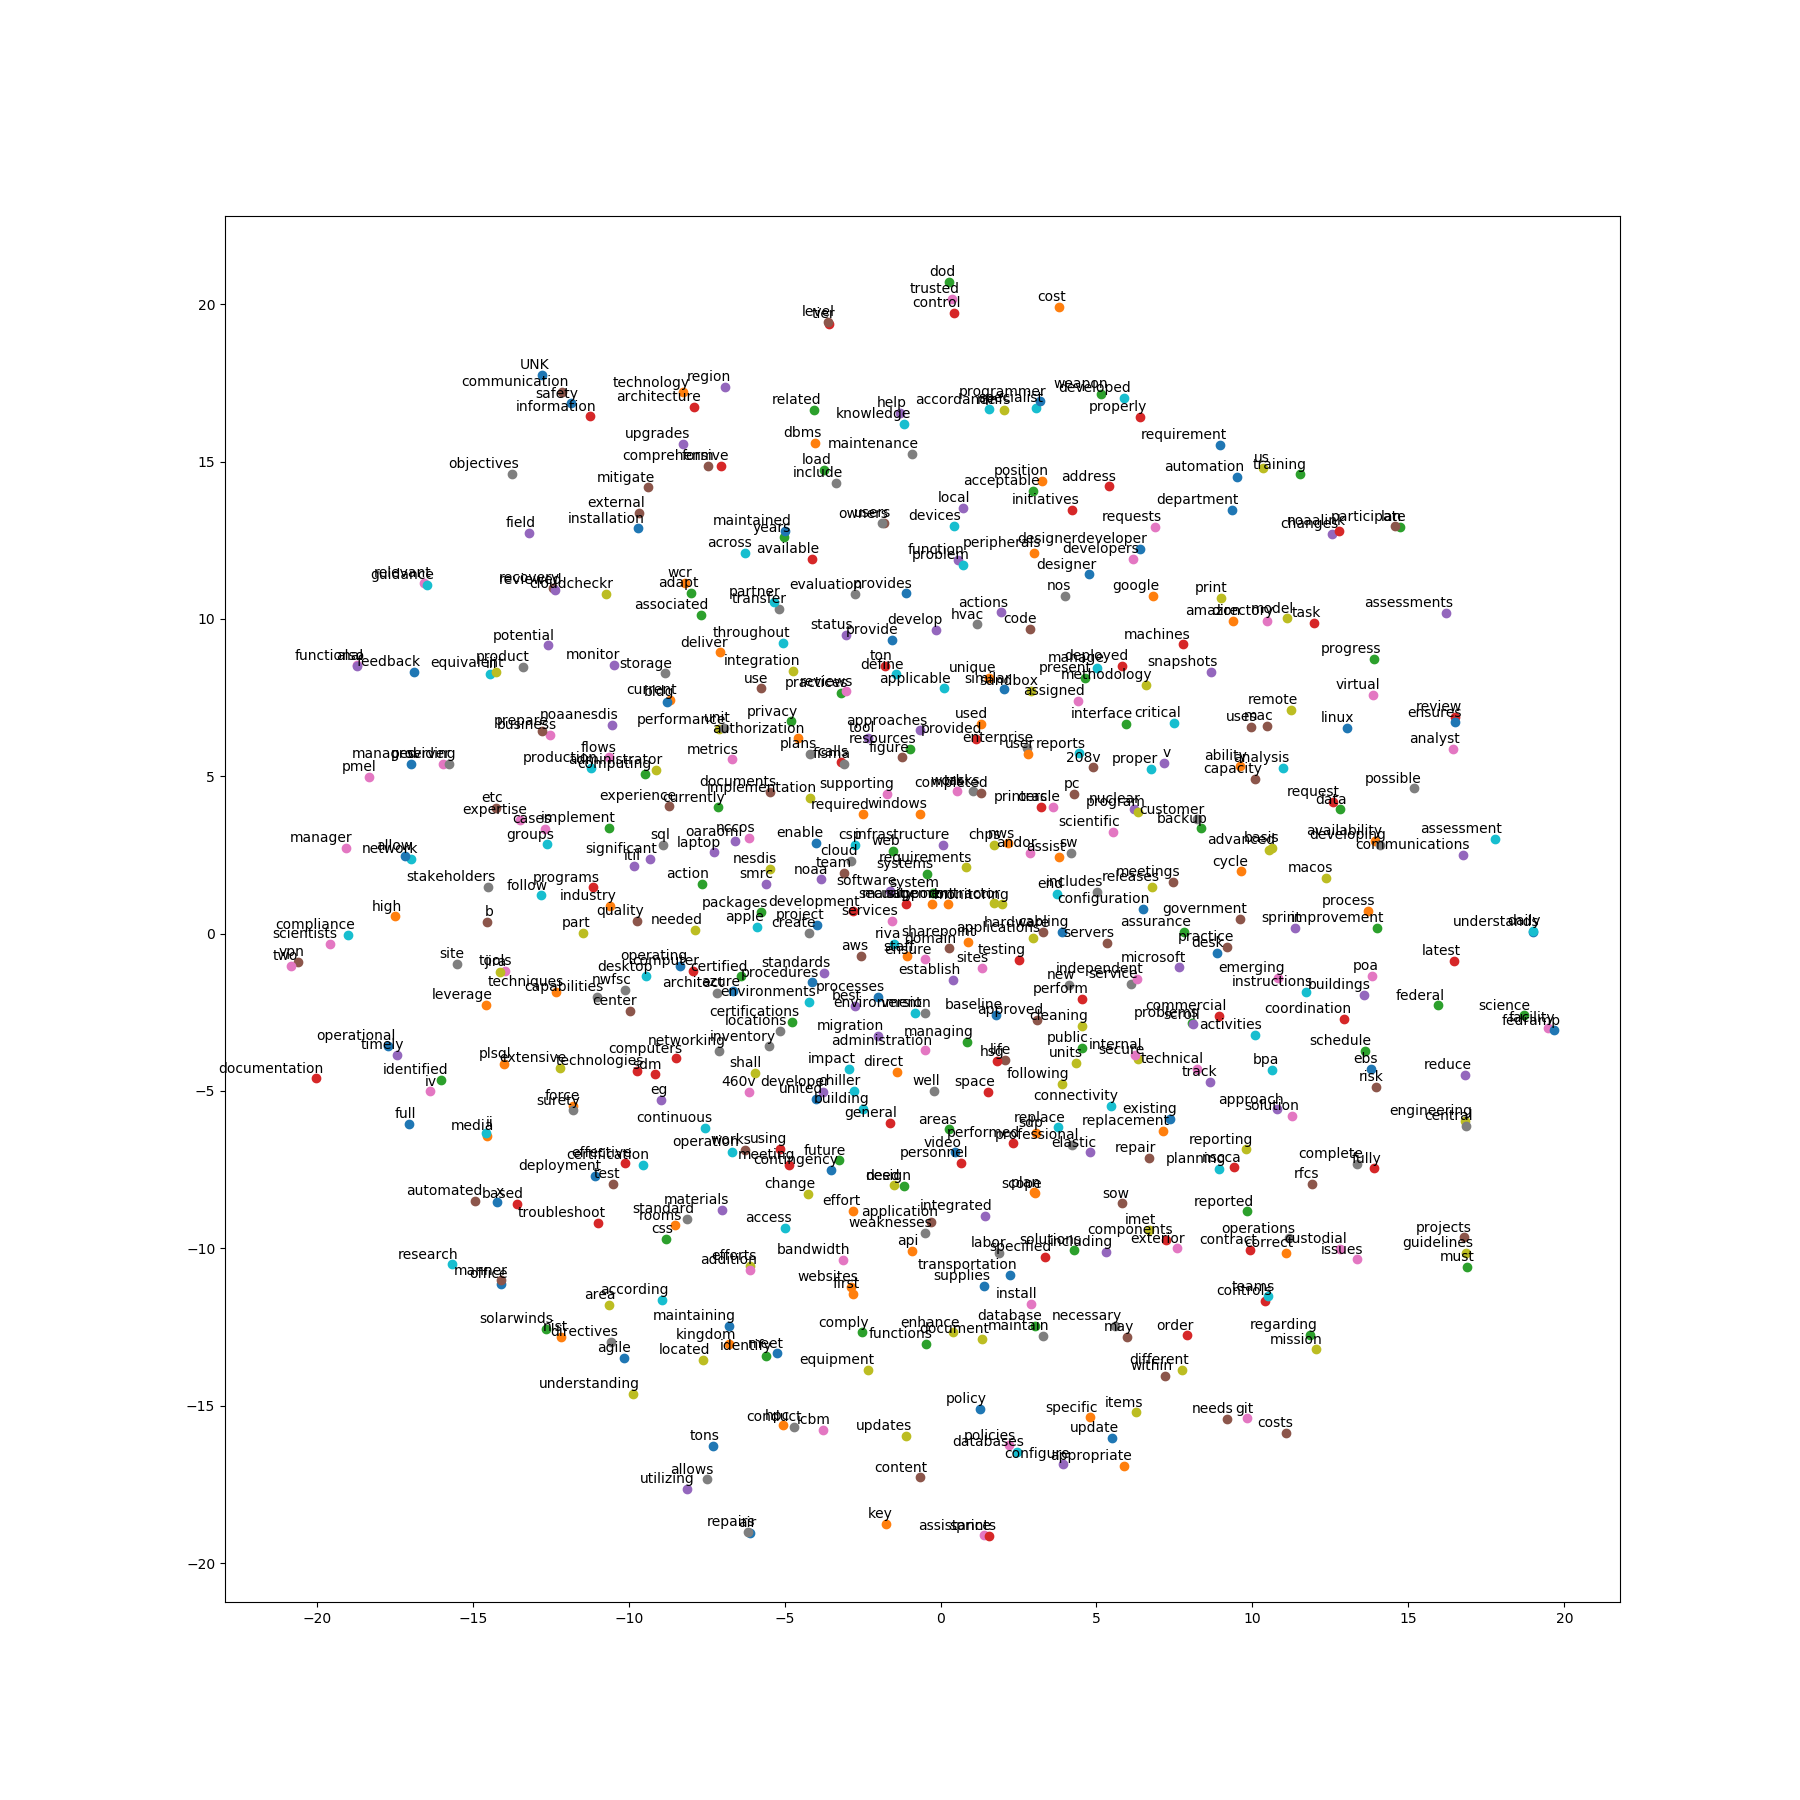
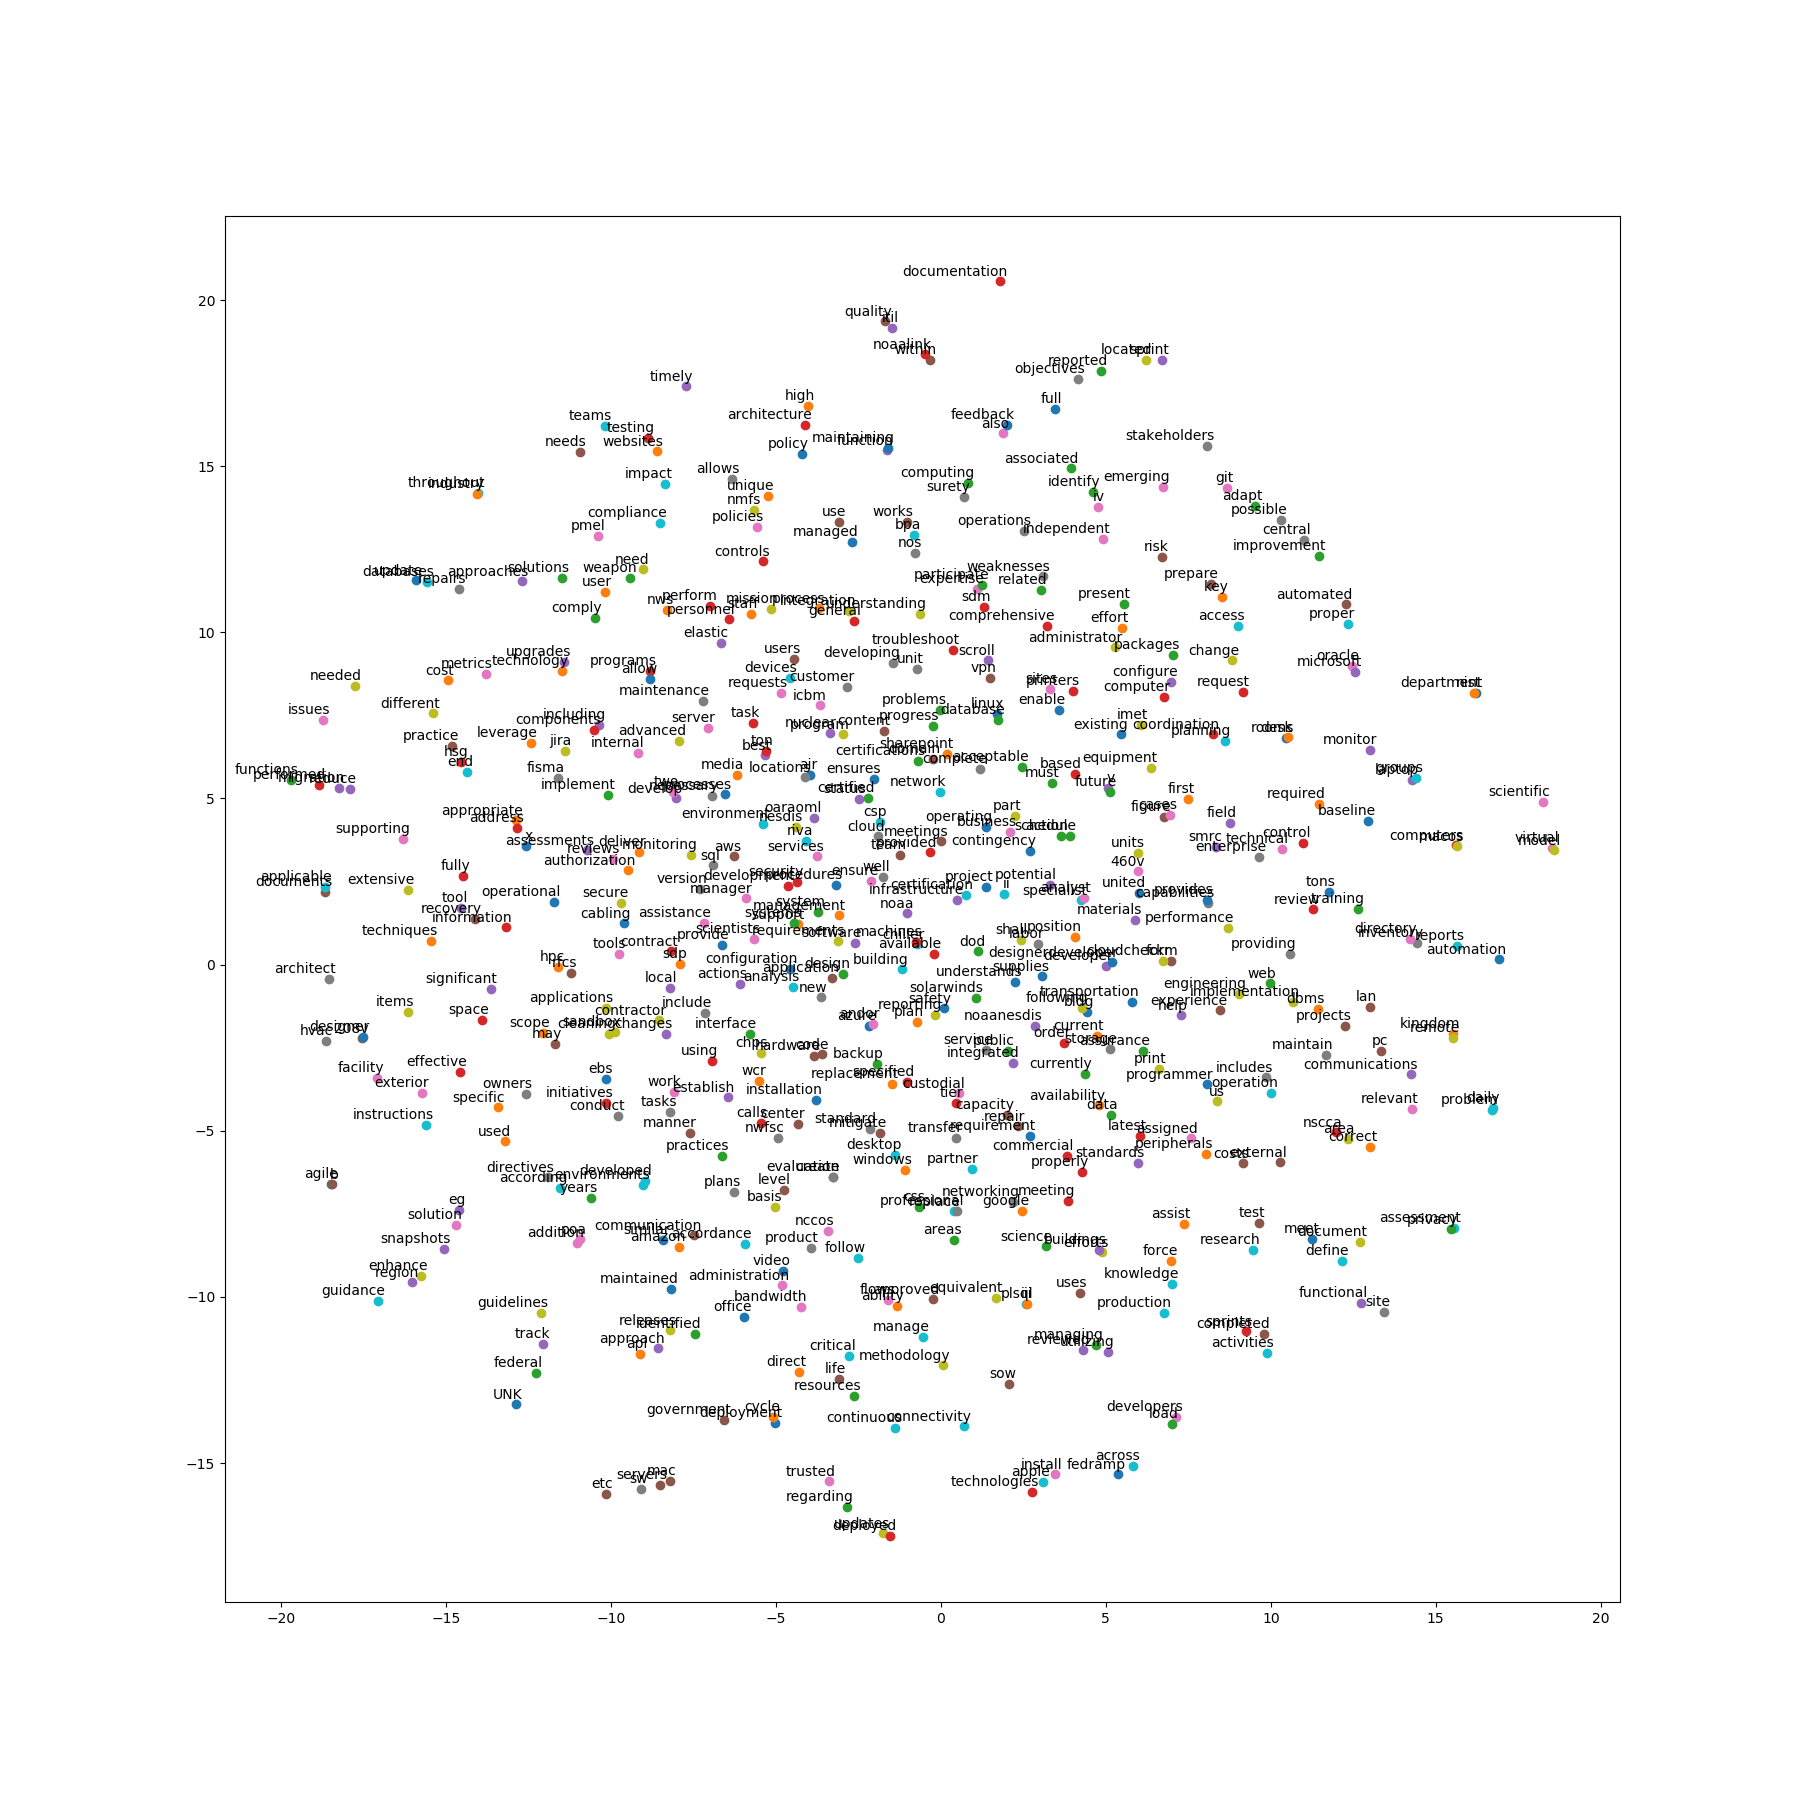
working on layers

diff --git a/ml_testing.py b/ml_testing.py
@@ -136,7 +136,7 @@ def build_dataset(words, n_words):
     reversed_dictionary = dict(zip(dictionary.values(), dictionary.keys()))
     return data, count, dictionary, reversed_dictionary
 
-vocabulary_size = 50000
+vocabulary_size = 100000
 
 real = [item for sublist in pre for item in sublist]
 
@@ -144,7 +144,6 @@ data, count, dictionary, reverse_dictionary = build_dataset(real, vocabulary_siz
 
 print('Most common words (+UNK)', count[:5])
 print('Sample data', data[:10], [reverse_dictionary[i] for i in data[:10]])
-
 
 ####
 
@@ -161,6 +160,9 @@ for list in pre:
             sentence.append(word)
     finalWordsNumberList.append(sentence)
 
+# this def is for a custom word2vec layer that we never used bc we found out keras took care of it for us
+#def random():
+    # something
 '''
 data_index = 0
 # generate batch data
@@ -247,6 +249,7 @@ with graph.as_default():
 
   # Compute the cosine similarity between minibatch examples and all embeddings.
   norm = tf.sqrt(tf.reduce_sum(tf.square(embeddings), 1, keep_dims=True))
+
   normalized_embeddings = embeddings / norm
   valid_embeddings = tf.nn.embedding_lookup(
       normalized_embeddings, valid_dataset)
@@ -299,6 +302,8 @@ with tf.Session(graph=graph) as session:
         print(log_str)
   final_embeddings = normalized_embeddings.eval()
   print(final_embeddings)
+  print(final_embeddings[0])
+  print(len(final_embeddings))
     ####
     # word embbeded layer
     ####
@@ -330,11 +335,8 @@ try:
 
 except ImportError:
   print('Please install sklearn, matplotlib, and scipy to show embeddings.')
-
 '''
-
 finalWordsNumberList = tf.keras.preprocessing.sequence.pad_sequences(finalWordsNumberList, value=0, padding='post', maxlen=128)
-
 
 model = tf.keras.Sequential()
 model.add(tf.keras.layers.Embedding(10000, 16))
